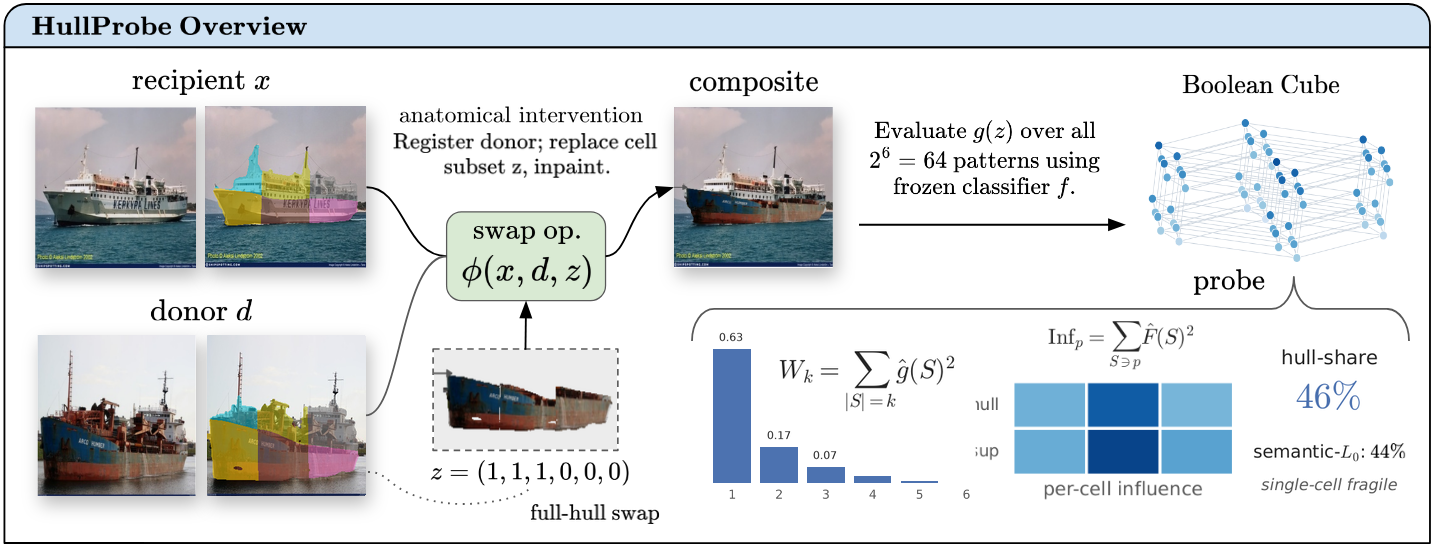
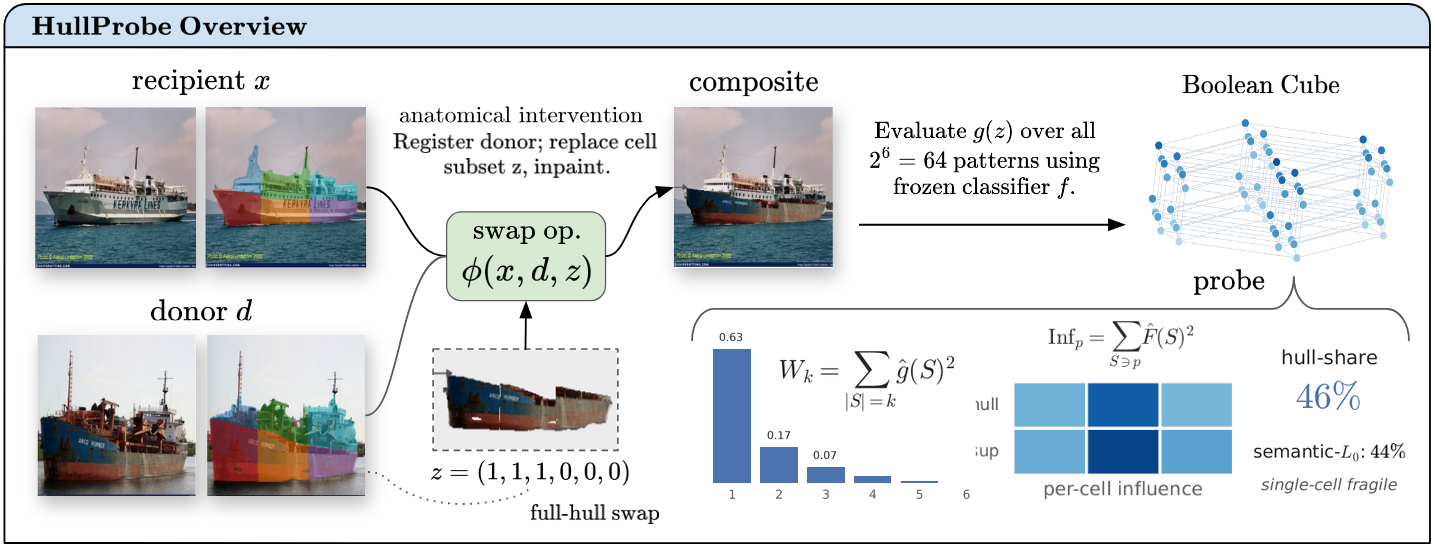
Restore the paper's original figure palette
Fig. 1 (README image and paper/make_fig_decomp.py) keeps the submission's
colors, with smoothed mask edges, thin cell borders, compact legends, and
fwd/mid/aft labels. The overview and SeaShips figures return to the same
palette; the overview keeps the n=277 W_k bars.

Changed region(s): [[0.1226, 0.7148, 0.276, 0.9013], [0.1226, 0.2797, 0.276, 0.4351], [0.1533, 0.4662, 0.184, 0.4973]]

diff --git a/paper/make_fig_decomp.py b/paper/make_fig_decomp.py
@@ -1,81 +1,120 @@
 """fig_decomp.png -- Fig. 1: the two decompositions and their 2x3 product.
 
-2x2 panel: original | hull/superstructure  //  fwd/mid/aft thirds | six cells.
-Uses the audit's own region map (data/predictions/<id>.png) and lattice.cell_masks, so the
-cells drawn are exactly the cells the audit swaps. Every panel has its own legend, and the
-six-cell panel uses colors that appear in neither of the two factor panels, so the cells are not
-read as segmentation classes. Longitudinal thirds are labeled
-fwd/mid/aft, not bow/stern: they are canonical-frame thirds, not a detected bow.
+2x2 panel: original | hull/superstructure  //  fwd/mid/aft thirds | six cells, in the paper's
+palette. Masks come from the audit's own region map and lattice.cell_masks, so the cells drawn are
+exactly the cells the audit swaps; they are upsampled with per-label smoothing (no staircased
+edges), and the six cells are separated by thin white borders. Longitudinal thirds are labeled
+fwd/mid/aft: they are canonical-frame thirds, not a detected bow and stern.
 
-Usage (repo root):  python paper/make_fig_decomp.py
+Usage (repo root):  python paper/make_fig_decomp.py   (needs the release assets; see README)
 """
 import json
 from pathlib import Path
+
+import cv2
+import matplotlib
 import numpy as np
 from PIL import Image
-import matplotlib
+
 matplotlib.use("Agg")
+import matplotlib.patheffects as pe
 import matplotlib.pyplot as plt
 from matplotlib.patches import Patch
 
-from hullprobe.lattice import cell_masks, CELLS
+from hullprobe.lattice import CELLS, cell_masks
 from hullprobe.segmenter import load_region_png
 
 ROOT = Path(__file__).resolve().parents[1]
 OUT = ROOT / "paper" / "figures" / "fig_decomp.png"
 VID = "581061"
+UP = 4                                   # render at 4x the 256 px source
+LEG = dict(fontsize=4.6, handlelength=0.9, handleheight=0.7, handletextpad=0.3, columnspacing=0.7,
+           borderpad=0.3, labelspacing=0.2, framealpha=0.85, edgecolor="none")
 
-# factor panels keep the colors used across the paper (hull red, superstructure blue)
-C_HULL, C_SUP = "#C0392B", "#2E6FBF"
-C_FWD, C_MID, C_AFT = "#2CA02C", "#FF8C00", "#9467BD"
-# product panel: six colors disjoint from the five above
-C_CELL = {("hull", "fwd"): "#F2C80F", ("hull", "mid"): "#8C564B", ("hull", "aft"): "#E377C2",
-          ("sup", "fwd"): "#17BECF", ("sup", "mid"): "#BCBD22", ("sup", "aft"): "#8A8A8A"}
+# original palette (scripts/decompose_image.py, submission Fig. 1)
+C_HULL, C_SUP = "#C82828", "#286EC8"
+C_THIRD = {1: "#2CA02C", 2: "#FF8C00", 3: "#945ABE"}                  # fwd, mid, aft
+C_CELL = {("hull", "fwd"): "#D62728", ("hull", "mid"): "#FF7F0E", ("hull", "aft"): "#9467BD",
+          ("sup", "fwd"): "#1F77B4", ("sup", "mid"): "#2CA02C", ("sup", "aft"): "#17BECF"}
 
 
 def rgb(h):
-    return np.array([int(h[i:i + 2], 16) for i in (1, 3, 5)], np.float32)
+    return np.array(matplotlib.colors.to_rgb(h)) * 255
 
 
-def overlay(img, masks_colors, alpha=0.55):
+def smooth_labels(label, n):
+    """Upsample an integer label map by UP with per-label blurring, then argmax (a clean partition)."""
+    h, w = label.shape
+    prob = []
+    for k in range(n):
+        m = cv2.resize((label == k).astype(np.float32), (w * UP, h * UP), interpolation=cv2.INTER_LINEAR)
+        prob.append(cv2.GaussianBlur(m, (0, 0), UP * 0.6))
+    return np.argmax(np.stack(prob), 0)
+
+
+def overlay(img, label, colors, alpha):
     out = img.astype(np.float32).copy()
-    for m, c in masks_colors:
+    for k, c in colors.items():
+        m = label == k
         out[m] = (1 - alpha) * img[m] + alpha * rgb(c)
     return out.clip(0, 255).astype(np.uint8)
+
+
+def borders(label, keep):
+    """Pixels where the label changes between two labels in `keep` (internal cell borders)."""
+    b = np.zeros(label.shape, bool)
+    for dy, dx in ((0, 1), (1, 0)):
+        a, c = label[: label.shape[0] - dy, : label.shape[1] - dx], label[dy:, dx:]
+        e = (a != c) & np.isin(a, keep) & np.isin(c, keep)
+        b[: label.shape[0] - dy, : label.shape[1] - dx] |= e
+    return cv2.dilate(b.astype(np.uint8), np.ones((3, 3), np.uint8)) > 0
 
 
 def main():
     rec = next(r for r in json.loads((ROOT / "data/pose_B.json").read_text())
                if Path(r["image_path"]).stem == VID)
-    img = np.asarray(Image.open(rec["image_path"]).convert("RGB"))
+    src = Image.open(rec["image_path"]).convert("RGB")
+    img = np.asarray(src.resize((src.width * UP, src.height * UP), Image.LANCZOS))
     cells, vessel = cell_masks(rec, region_map=load_region_png(ROOT / f"data/predictions/{VID}.png"))
-    hull = cells[("hull", "fwd")] | cells[("hull", "mid")] | cells[("hull", "aft")]
-    sup = vessel & ~hull
-    thirds = [cells[("hull", l)] | cells[("sup", l)] for l in ("fwd", "mid", "aft")]
 
-    panels = [
-        (img, None),
-        (overlay(img, [(hull, C_HULL), (sup, C_SUP)]),
-         [(C_HULL, "hull"), (C_SUP, "superstructure")]),
-        (overlay(img, [(thirds[0], C_FWD), (thirds[1], C_MID), (thirds[2], C_AFT)]),
-         [(C_FWD, "fwd"), (C_MID, "mid"), (C_AFT, "aft")]),
-        (overlay(img, [(cells[c], C_CELL[c]) for c in CELLS], alpha=0.6),
-         # legend fills column-major: order so rows read hull / sup and columns fwd/mid/aft
-         [(C_CELL[(v, l)], f"{v}-{l}") for l in ("fwd", "mid", "aft") for v in ("hull", "sup")]),
-    ]
+    cell_lab = np.zeros(vessel.shape, np.int32)               # 0 background, 1..6 cells
+    for i, c in enumerate(CELLS):
+        cell_lab[cells[c]] = i + 1
+    L = smooth_labels(cell_lab, 7)
+    hull = np.isin(L, [1, 2, 3]); sup = np.isin(L, [4, 5, 6])
+    third = np.where(L == 0, 0, (L - 1) % 3 + 1)              # 1 fwd, 2 mid, 3 aft
 
-    fig, axs = plt.subplots(2, 2, figsize=(4.0, 4.02), gridspec_kw=dict(wspace=0.04, hspace=0.05))
-    for ax, (im, leg) in zip(axs.ravel(), panels):
-        ax.imshow(im); ax.set_xticks([]); ax.set_yticks([])
+    fig, axs = plt.subplots(2, 2, figsize=(4.0, 4.0), gridspec_kw=dict(wspace=0.03, hspace=0.03))
+    axs = axs.ravel()
+
+    # (a) original
+    axs[0].imshow(img)
+
+    # (b) hull / superstructure
+    hs = np.where(hull, 1, np.where(sup, 2, 0))
+    axs[1].imshow(overlay(img, hs, {1: C_HULL, 2: C_SUP}, 0.55))
+    axs[1].legend(handles=[Patch(color=C_HULL, label="hull"), Patch(color=C_SUP, label="superstructure")],
+                  loc="lower center", ncol=2, **LEG)
+
+    # (c) fwd / mid / aft thirds
+    axs[2].imshow(overlay(img, third, C_THIRD, 0.55))
+    axs[2].legend(handles=[Patch(color=C_THIRD[k], label=n) for k, n in ((1, "fwd"), (2, "mid"), (3, "aft"))],
+                  loc="lower center", ncol=3, **LEG)
+
+    # (d) six cells
+    d_img = overlay(img, L, {i + 1: C_CELL[c] for i, c in enumerate(CELLS)}, 0.55)
+    d_img[borders(L, list(range(1, 7)))] = (255, 255, 255)
+    axs[3].imshow(d_img)
+    axs[3].legend(handles=[Patch(color=C_CELL[(v, l)], label=f"{v}-{l}")
+                           for l in ("fwd", "mid", "aft") for v in ("hull", "sup")],
+                  loc="lower center", ncol=3, **LEG)
+
+    for ax in axs:
+        ax.set_xticks([]); ax.set_yticks([])
         for s in ax.spines.values():
-            s.set_linewidth(0.4); s.set_color("#888888")
-        if leg:
-            ncol = 3 if len(leg) > 2 else 2
-            ax.legend(handles=[Patch(color=c, label=l) for c, l in leg], loc="lower center",
-                      ncol=ncol, fontsize=5.2, framealpha=0.88, handlelength=1.0,
-                      handletextpad=0.35, columnspacing=0.6, borderpad=0.3, labelspacing=0.25)
-    fig.savefig(OUT, dpi=400, bbox_inches="tight", pad_inches=0.01)
-    print("wrote", OUT, "| cells px:", {f"{c[0]}-{c[1]}": int(cells[c].sum()) for c in CELLS})
+            s.set_linewidth(0.4); s.set_color("#999999")
+    fig.savefig(OUT, dpi=350, bbox_inches="tight", pad_inches=0.01)
+    print("wrote", OUT)
 
 
 if __name__ == "__main__":

diff --git a/paper/make_fig_seaships.py b/paper/make_fig_seaships.py
@@ -22,9 +22,8 @@ CLASSES = json.loads(Path("data/seaships/classes.json").read_text())
 recs = json.loads(Path("data/seaships/pose.json").read_text())["records"]
 by_stem = {Path(r["image_path"]).stem: r for r in recs}
 test = [r for r in recs if r.get("source_split") == "test"]
-# six-cell palette shared with Fig. 1 (make_fig_decomp.py), in CELLS order
-COLORS = np.array([[0xF2,0xC8,0x0F],[0x8C,0x56,0x4B],[0xE3,0x77,0xC2],
-                   [0x17,0xBE,0xCF],[0xBC,0xBD,0x22],[0x8A,0x8A,0x8A]], np.float32)
+COLORS = np.array([[214,39,40],[255,127,14],[148,103,189],
+                   [31,119,180],[44,160,44],[23,190,207]], np.float32)   # Fig. 1 palette, CELLS order
 OUT = Path("paper/figures/fig_seaships.jpg")
 SEL = ["000647_0", "006861_0", "000305_0", "004513_0"]   # bulk, fishing, ore, passenger
 DONOR_RANK = {"000305_0": 1, "004513_0": 0}   # which aspect-compatible donor (0=closest)
